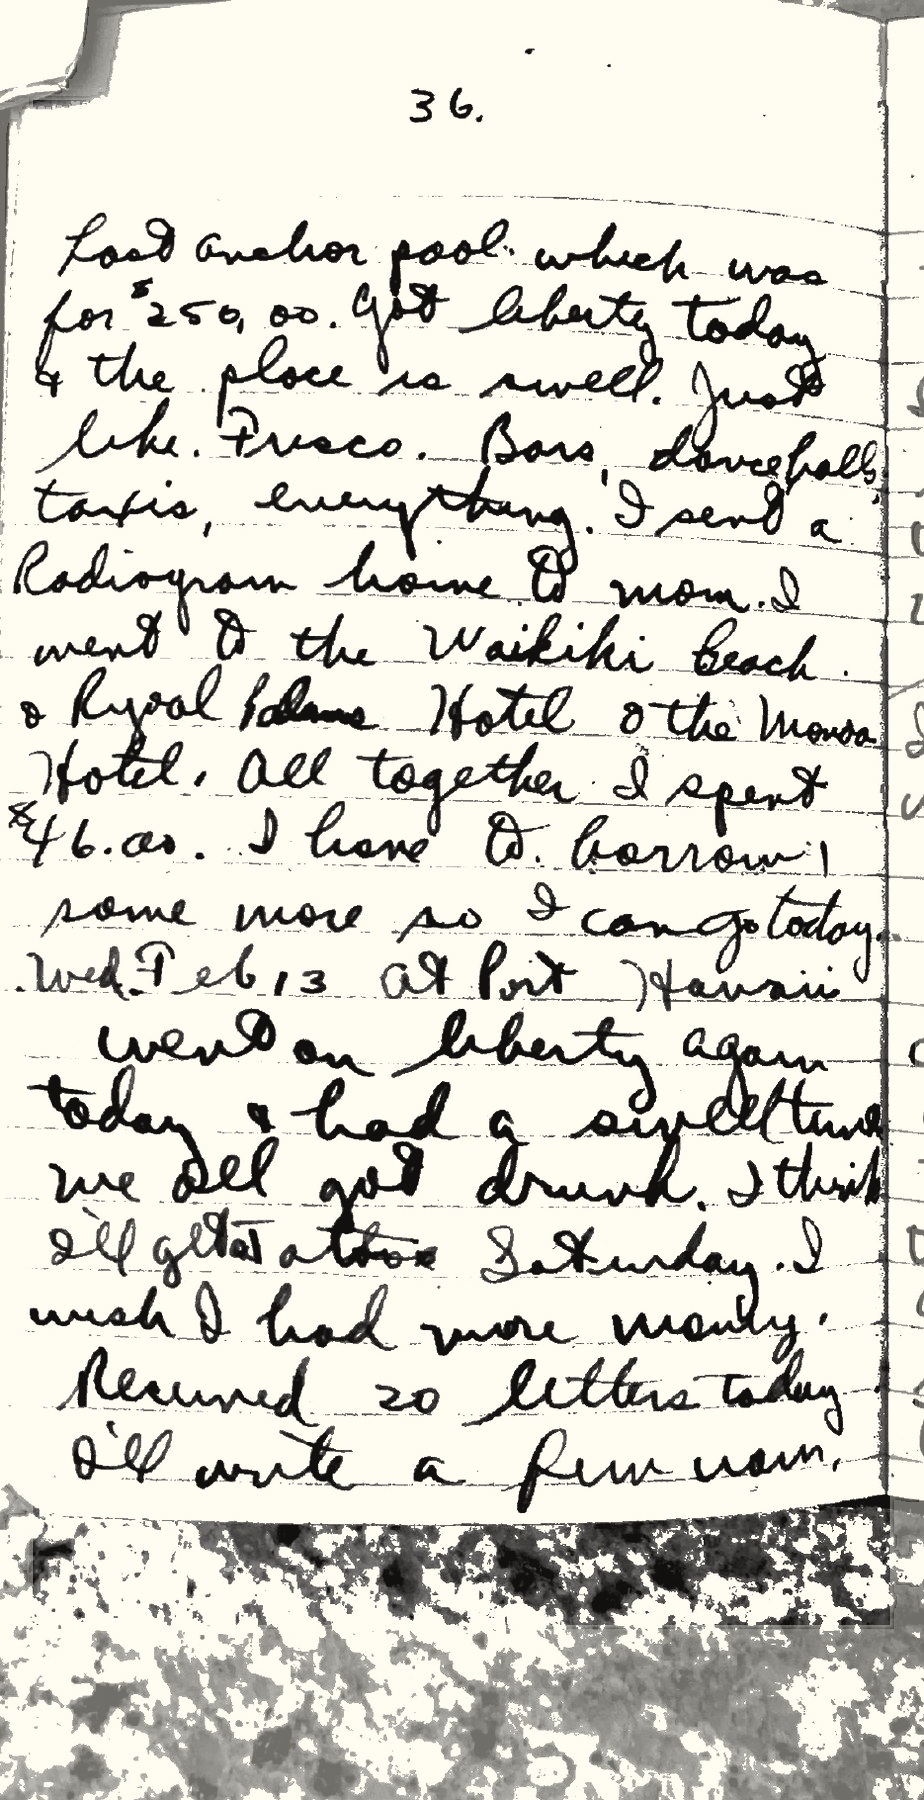
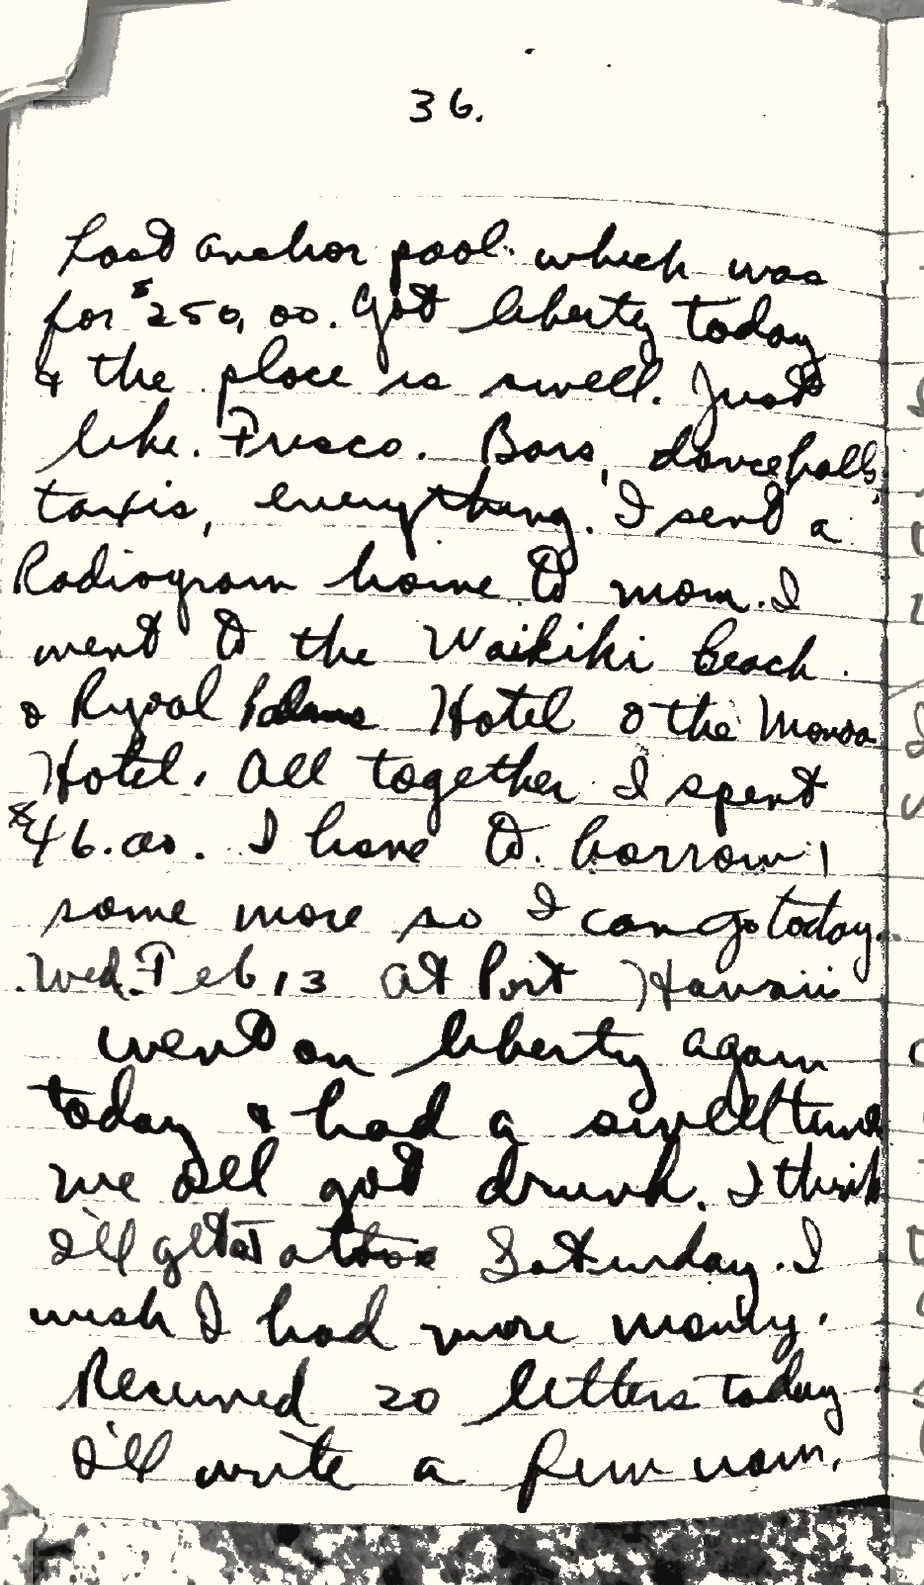
Crop bottom shadows on selected handwritten pages

diff --git a/docs/index.html b/docs/index.html
@@ -1424,7 +1424,7 @@
     <section class="column handwrittenColumn" aria-label="Page 36 handwritten page">
       
       <figure>
-        <img src="assets/pages_shadow_midpoint/page_37.jpg" alt="Handwritten diary Page 37" width="924" height="1800" loading="lazy">
+        <img src="assets/pages_shadow_midpoint/page_37.jpg" alt="Handwritten diary Page 37" width="924" height="1585" loading="lazy">
         
       </figure>
     </section>
@@ -1453,7 +1453,7 @@
     <section class="column handwrittenColumn" aria-label="Page 37 handwritten page">
       
       <figure>
-        <img src="assets/pages_shadow_midpoint/page_38.jpg" alt="Handwritten diary Page 38" width="924" height="1800" loading="lazy">
+        <img src="assets/pages_shadow_midpoint/page_38.jpg" alt="Handwritten diary Page 38" width="924" height="1560" loading="lazy">
         
       </figure>
     </section>
@@ -1570,7 +1570,7 @@
     <section class="column handwrittenColumn" aria-label="Page 41 handwritten page">
       
       <figure>
-        <img src="assets/pages_shadow_midpoint/page_42.jpg" alt="Handwritten diary Page 42" width="885" height="1800" loading="lazy">
+        <img src="assets/pages_shadow_midpoint/page_42.jpg" alt="Handwritten diary Page 42" width="885" height="1525" loading="lazy">
         
       </figure>
     </section>
@@ -1710,7 +1710,7 @@
     <section class="column handwrittenColumn" aria-label="Page 46 handwritten page">
       
       <figure>
-        <img src="assets/pages_shadow_midpoint/page_47.jpg" alt="Handwritten diary Page 47" width="1023" height="1800" loading="lazy">
+        <img src="assets/pages_shadow_midpoint/page_47.jpg" alt="Handwritten diary Page 47" width="1023" height="1775" loading="lazy">
         
       </figure>
     </section>

diff --git a/scripts/clean-handwritten-shadows.py b/scripts/clean-handwritten-shadows.py
@@ -11,6 +11,14 @@ import numpy as np
 from PIL import Image
 
 
+BOTTOM_CROP_HEIGHTS = {
+    "page_37.jpg": 1585,
+    "page_38.jpg": 1560,
+    "page_42.jpg": 1525,
+    "page_47.jpg": 1775,
+}
+
+
 def paper_color(image: np.ndarray) -> np.ndarray:
     gray = cv2.cvtColor(image, cv2.COLOR_RGB2GRAY)
     height, width = gray.shape
@@ -165,6 +173,9 @@ def main() -> None:
             original_array = np.asarray(original, dtype=np.float32)
             blended = original_array * (1 - args.clean_strength) + cleaned_array * args.clean_strength
             cleaned = Image.fromarray(np.clip(blended, 0, 255).astype(np.uint8))
+        crop_height = BOTTOM_CROP_HEIGHTS.get(source_file.name)
+        if crop_height:
+            cleaned = cleaned.crop((0, 0, cleaned.width, crop_height))
         cleaned.save(output_dir / source_file.name, quality=94, optimize=True)
         print(f"cleaned {source_file.name}")
 
